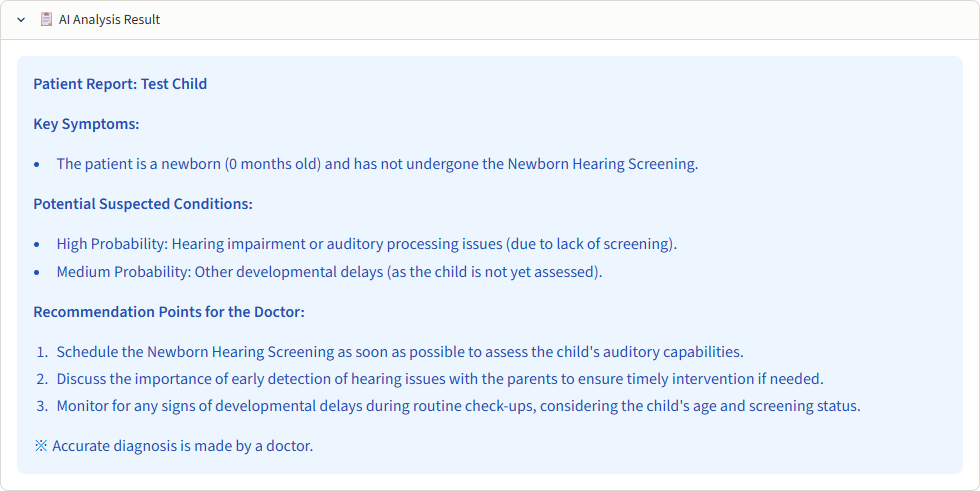
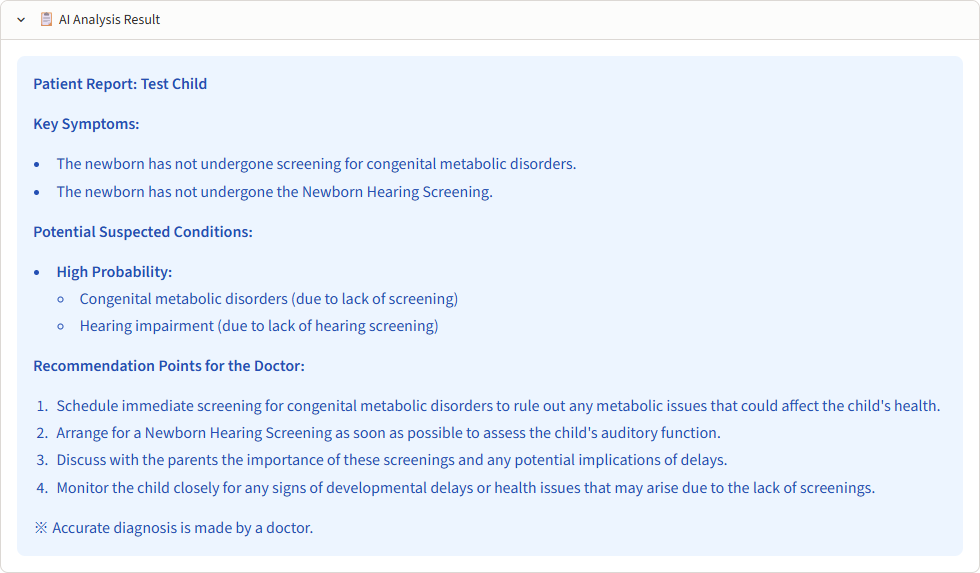
docs: 소아과 페이지에 PDF 리포트 화면 추가, 요약 화면 갱신

diff --git a/pediatric-previsit-agent/README.md b/pediatric-previsit-agent/README.md
@@ -46,7 +46,7 @@ flowchart LR
 
 **PDF 리포트.** 아이 정보와 답변, 요약을 보호자와 의료진이 내려받을 수 있는 PDF로 만듭니다.
 
-<!-- ![PDF 리포트](docs/pdf-report.png) -->
+![PDF 리포트](docs/pdf-report.png)
 
 ## 평가
 
